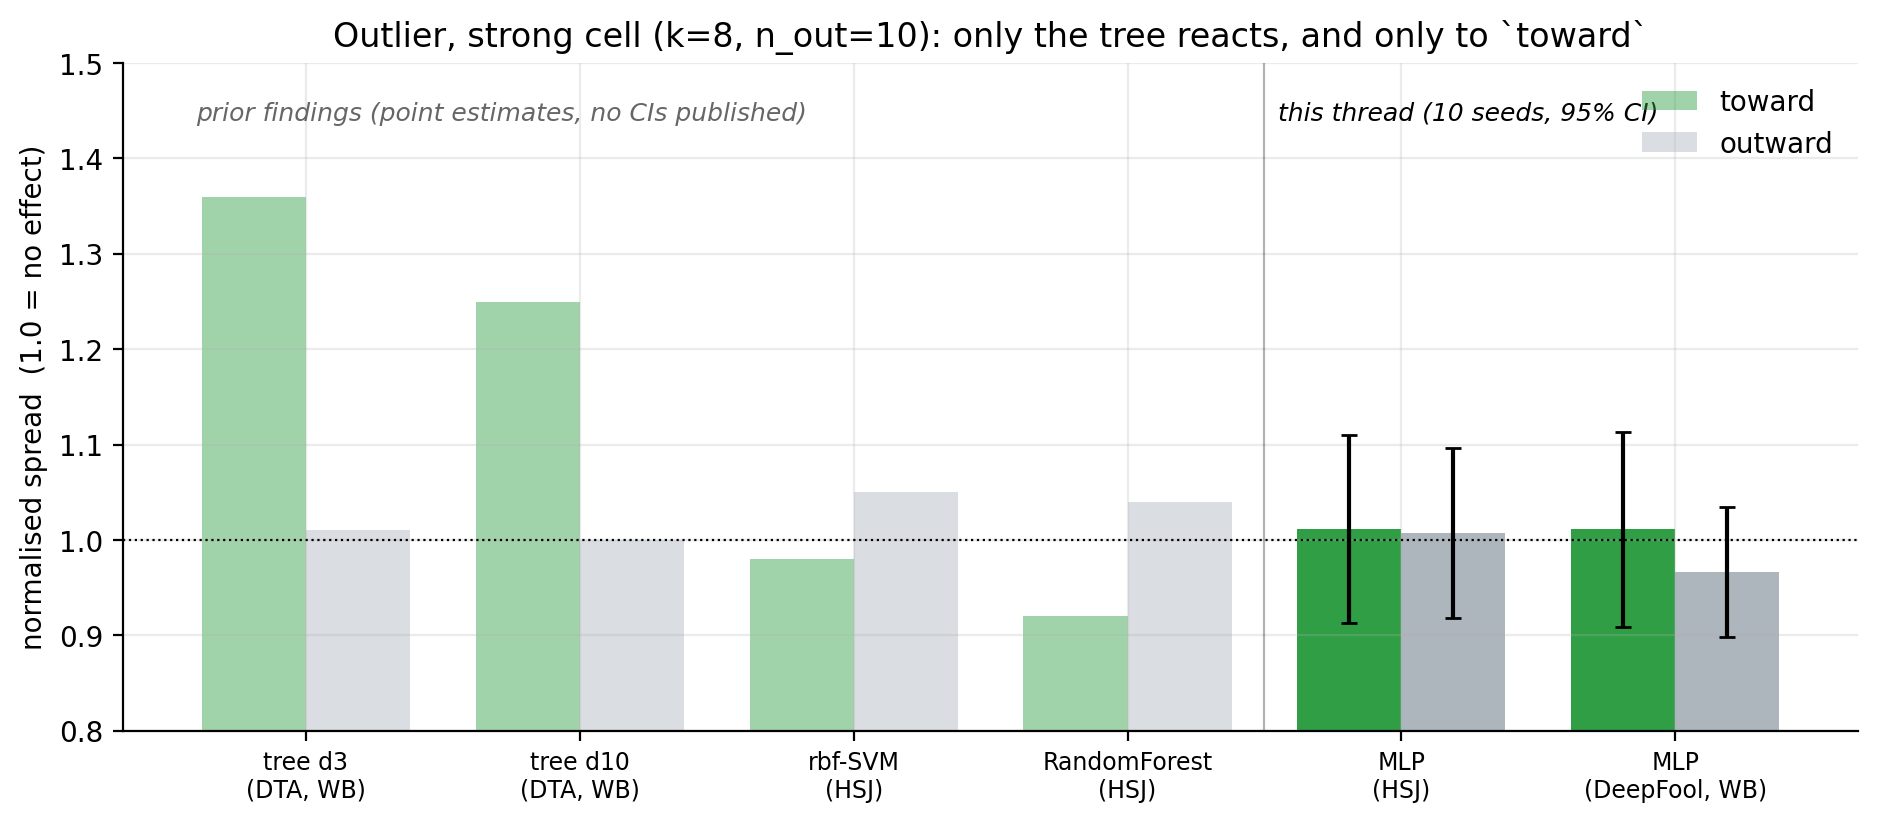
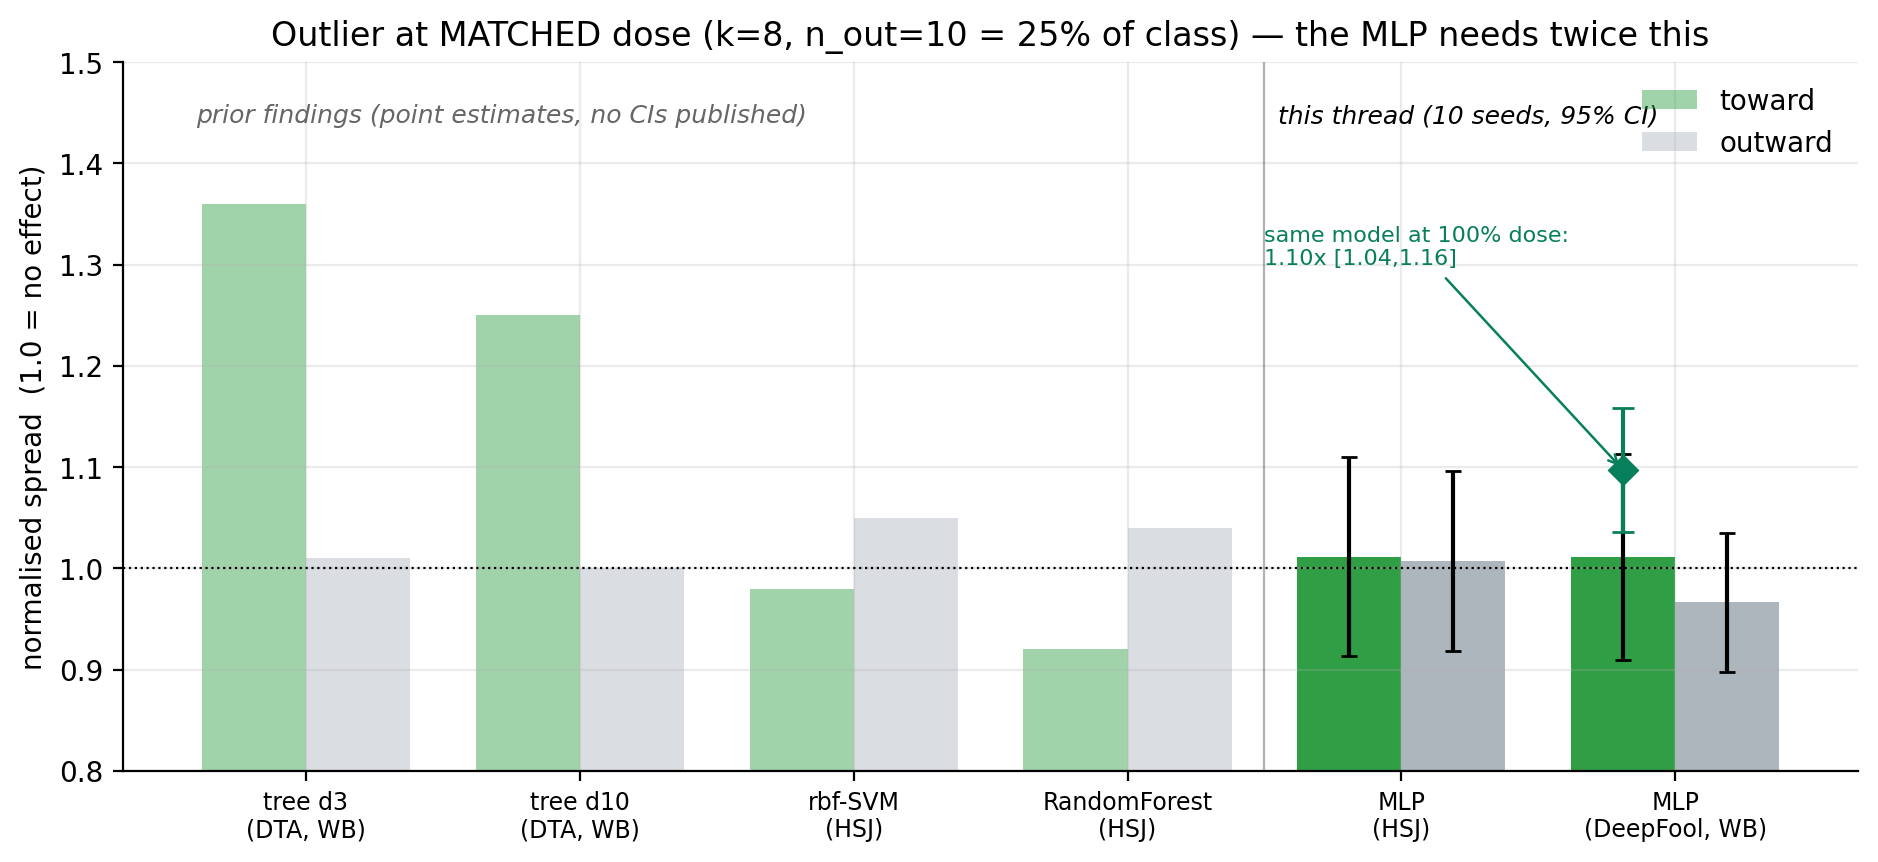
Apply the F4 dose correction to Phase 0; dedupe against FINDINGS_dose.md
FINDINGS_dose.md D1 flagged that F4/H6 needed the dose qualification. This
applies it and removes the overlap between the two documents.

- F4: "the outlier signal is specific to axis-aligned partition models" was
  wrong. MLP `toward` is null only at n_out<=10; at >=50% dose it reaches a
  stable ~1.10x with accuracy flat. Corrected to ~5x the tree's dose (the tree
  responds from n_out~1 and saturates by ~5), not the "double" an earlier
  draft of this edit claimed. `outward` is unaffected: null at every distance
  and every dose out to 150% of class size, so the locality refutation stands.
- F4/F5/F6 now state the conclusion and point to FINDINGS_dose.md D1-D3 for
  the tables, rather than restating them less carefully. D1's caveats (the
  n_out=10 dip is instability below 50% dose, not a real dip; 60 points at 8s
  is a second class mode, not an outlier) are better than what I had written.
- F5 picks up D3: the near-field contamination defect stays invisible to
  accuracy at every dose (minority recall 0.942 -> 0.942 at 150%), which is a
  stronger form of the project's claim than the coverage gap, whose
  accuracy-blindness F1 showed to be a test-set artifact.
- F6 upgraded from "lead" to "weak but replicated": `random` now has a dose
  curve (1.10/1.15/1.12 at 12-50%, decaying above), echoing RF's 1.13x.
- f4 figure: retitled to state it is the MATCHED dose (25% of class) and
  annotated with the same model's 100%-dose value, so the panel can no longer
[…]

diff --git a/mlp_experiment/FINDINGS_phase0.md b/mlp_experiment/FINDINGS_phase0.md
@@ -5,8 +5,10 @@ Every fold fits **one** model attacked by **both** HopSkipJump (black-box) and D
 (white-box), so the attack contrast shares identical weights. Spread is inverse-transformed to
 raw iris units and normalised **per seed** to that seed's clean baseline (1.0 = no effect).
 
-Data: `results.parquet` (720 rows / 360 cells, **0 NaN**). Runner: `run_experiment.py`.
-Analysis: `python analyze.py`. Contract: `PLAN.md`.
+Data: `results.parquet` (1440 rows / 720 cells, **0 NaN**) — the base grid plus the `--ceiling`
+(dose to 150% of class size at `k=8`) and `--dose` (count sweep at fixed `k=2`, `k=4`, with a
+matched-count `outward` control) extensions. Runner: `run_experiment.py`.
+Analysis: `python analyze.py` · figures: `analysis.ipynb`. Contract: `PLAN.md`.
 
 Clean baseline: `vacc` 0.957, spread 0.600 (HSJ) / 0.622 (DeepFool), perturbation ~1.36.
 **H5 ✅** — same order as tree (~0.44) and SVM (~0.49), so the standardise-then-invert pipeline
@@ -71,46 +73,48 @@ running out of attackable test points**, and it is attack-specific (HSJ's stocha
 DeepFool's deterministic gradient step — DeepFool/`before_split` moves 1.27× → 1.24×, within CI).
 Confirmed on a model family that shares no structure with the decision tree.
 
-## F4 — H6 REFUTED: the MLP does *not* see outward outliers, so locality is not the explanation
+## F4 — H6: `outward` is refuted robustly; `toward` fires, but only at ~5× the tree's dose
 
 Pre-registered prediction: a global boundary should be dragged by a far same-labeled point, so
-`outward` should fire where every local model is null. It does not.
+`outward` should fire where every local model is null.
 
-Strong cell (`k=8, n_out=10`), normalised, 95% CI:
+**`outward` does not fire — at any distance, at any dose, under either attack.** Now tested to
+`n_out=60`, i.e. **150% of the target class**, at `k=8` (3.53 cm, genuine far field):
 
-| model (attack) | toward | outward |
-|---|---|---|
-| tree d3 (DTA, white-box) | **1.36×** | 1.01× null |
-| tree d10 (DTA, white-box) | **1.25×** | 1.00× null |
-| rbf-SVM (HSJ) | 0.98× null | 1.05× null |
-| RandomForest (HSJ) | 0.92× null | 1.04× null |
-| **MLP (HSJ)** | **1.01× [0.91,1.11] null** | **1.01× [0.92,1.10] null** |
-| **MLP (DeepFool, white-box)** | **1.01× [0.91,1.11] null** | **0.97× [0.90,1.03] null** |
+| dose (% of class) | 12% | 25% | 50% | 75% | 100% | 150% |
+|---|---|---|---|---|---|---|
+| DeepFool `outward` | 1.00 | 0.97 | 1.03 | 0.92 | 0.95 | 1.02 |
 
-Two conclusions, both cleaner than the hypothesis they replace:
+**The locality explanation is therefore wrong.**
+[`outlier_experiment/FINDINGS_phase05.md`](../outlier_experiment/FINDINGS_phase05.md) F4 attributes
+the rbf-SVM `outward` null to the Gaussian kernel's influence decaying to ~0 before reaching the
+probed boundary, and names a global-boundary model as the clean test. The MLP is that test, it is
+null under a white-box gradient attack, and it stays null when the "outliers" outnumber the class
+itself. The `outward` null is **general**, not a kernel artifact. The proposed linear-SVM
+follow-up is not worth running.
 
-1. **The locality explanation is wrong, or at least insufficient.**
-   [`outlier_experiment/FINDINGS_phase05.md`](../outlier_experiment/FINDINGS_phase05.md) F4
-   attributes the rbf-SVM `outward` null to the Gaussian kernel's influence decaying to ~0 before
-   reaching the probed boundary, and names a global-boundary model as the clean test. The MLP is
-   that test, and it is null too — **including under a white-box gradient attack**. The
-   `outward` null is *general*, not a kernel-locality artifact. The proposed linear-SVM follow-up
-   is unlikely to be worth running.
-2. **The outlier signal looks specific to axis-aligned partition models under white-box attack.**
-   The MLP shows no `toward` response either (1.01×), where trees show 1.25–1.36×. Combined with
-   RF's null, the tree result now looks like a property of *how a tree carves space* — a lone far
-   point forces a dedicated axis-aligned tendril that the minimal-perturbation attack walks into —
-   rather than a general property of adversarial geometry.
+### ⚠ Correction — `toward` DOES fire on the MLP; this document's first draft got it wrong
 
-The H6 refutation is unaffected by F5 below: `outward` is null at *every* distance, and `toward`
-at `k=8` — genuine far-field, 3.53 cm from the centroid — is null too.
+An earlier version of F4 concluded that "the outlier signal is specific to axis-aligned partition
+models under white-box attack", because MLP `toward` is null at the strong cell. **That cell is
+`n_out=10` — 25% of the class — which is simply too small a dose for this model.** At ≥50% dose
+DeepFool `toward` reaches a stable **~1.10×** with CIs clearing 1.0, while test accuracy holds at
+0.945–0.951 against a clean 0.957. The MLP needs roughly **5× the dose a tree needs** (the tree
+responds from `n_out≈1` and saturates by ~5); it is not blind to outliers.
 
-**Correction (H7).** An earlier draft of this document recorded H7 as "no dose-response at all,
-flat in `k` for both attacks and both directions". That was wrong. It scanned only for spread
-*above* 1.0 and filed everything else as null, discarding a clean monotonic trend running in the
-**compression** direction. See F5.
+Generalising from one cell was the error — the exact dose limitation flagged when F4 was written.
+**`outward` is unaffected and the locality refutation stands.** HSJ remains null at every dose,
+so Thread A's white-box dependence holds here too.
 
-## F5 — The MLP detects near-field CONTAMINATION by compressing, not far-field outliers (H7 ↺)
+Full account, including the fourth ceiling shape and its caveats:
+[`FINDINGS_dose.md`](FINDINGS_dose.md) **D1**.
+
+**Correction (H7).** An earlier draft also recorded H7 as "no dose-response at all, flat in `k`
+for both attacks and both directions". Also wrong: it scanned only for spread *above* 1.0 and
+filed everything else as null, discarding a clean trend running in the **compression** direction.
+See F5 and [`FINDINGS_dose.md`](FINDINGS_dose.md) D2.
+
+## F5 — Near-field CONTAMINATION produces the opposite sign: compression, not expansion (H7 ↺)
 
 At small `k` the `toward` injection does not produce an outlier at all. Measured geometry:
 
@@ -129,9 +133,14 @@ not an anomaly. DeepFool responds, and responds *downward*:
 | **DeepFool** (`n_out=10`) | **0.85× [0.79, 0.91]** | 0.96× [0.90, 1.01] | 1.01× [0.91, 1.11] |
 | HSJ (`n_out=10`) | 1.02× [0.96, 1.09] | 1.02× [0.90, 1.14] | 1.01× [0.91, 1.11] |
 
-Monotonic in `k`, and dose-dependent at fixed `k=2`: `n_out=5` → 0.90× [0.80, 1.01],
-`n_out=10` → **0.85×**. `nclust` (~3.8) and `clust_size` (~5.7) barely move, so these are
-genuinely tighter clusters, not a clustering artifact.
+Monotonic in `k`. `nclust` (~3.8) and `clust_size` (~5.7) barely move, so these are genuinely
+tighter clusters, not a clustering artifact.
+
+**A matched-count `outward` control confirms this is about *where* the points land, not *how
+many*** — `toward` sits at 0.85–0.91 across the dose sweep while `outward` at the identical count
+is flat at ~1.02. The compression is also a **threshold, not a dial**: it trips at `n_out=3` and
+then saturates rather than deepening. Full dose sweep and the accuracy-blindness check:
+[`FINDINGS_dose.md`](FINDINGS_dose.md) **D2**, **D3**.
 
 **Mechanism.** Contamination drags the boundary into the dense contested band and anchors it
 there. DeepFool walks each test point to its *nearest* boundary, so every adversarial point piles
@@ -152,24 +161,43 @@ mapping" after observing accuracy dip at extreme `toward` injection. The frontie
 near **`k ≈ 3.7`** (where `k·s` equals the centroid gap).
 
 **Consequence for the F5 question in Thread A** — whether a more sensitive model detects
-*realistic* 2–3σ outliers: still **no**. A realistic outlier is far-field and same-labelled; the
-MLP is null there. What it detects at `k=2` is a different defect wearing the outlier's clothes.
+*realistic* 2–3σ outliers: **still no**. At `k=2–3` the injected point is not a realistic outlier,
+it is contamination in a neighbouring class, and what fires there is a different defect wearing
+the outlier's clothes. The MLP's genuine far-field outlier response (F4) needs `k=8` *and* ≥50%
+dose — far outside anything a real dataset would contain.
 
-## F6 — Tentative: `random` direction is the only far-field outlier cell that moves
+**But the contamination defect it *does* detect is the more valuable finding.** Per
+[`FINDINGS_dose.md`](FINDINGS_dose.md) D3, `k=2, toward` stays invisible to accuracy at every dose
+tested (minority recall 0.942 → 0.942 at 150% dose) while producing a stable, control-validated
+geometric signal. That is the project's central claim in its strongest form — and unlike the
+coverage gap, whose accuracy-blindness F1 showed to be a test-set artifact, this one survives a
+clean test set.
 
-DeepFool `random` at the strong cell is **1.15× [1.04,1.27]** while HSJ `random` is 1.01× (null).
-This echoes the one non-null RF cell in Thread B (`random` **1.13× [1.02,1.24]`,
-[`FINDINGS_outlier.md`](../model_family_experiment/FINDINGS_outlier.md) F2) — two different models
-showing a weak effect in the same direction.
+**The sign is the diagnostic.** Taken with F4, the MLP separates two defects by the *direction*
+of the geometric change: contamination in the overlap → **compression** (0.85×); far-field
+same-labelled outliers at high dose → **expansion** (1.10×). Both are white-box-only and both are
+accuracy-blind-ish, so a scalar magnitude alone would conflate them; the sign does not.
 
-**Treat as a lead, not a result.** It is a single cell among six direction × attack combinations
-with no dose-response behind it, so it is exactly the shape of a multiple-comparisons artifact.
-Thread A's own lesson (an n=3 conclusion that flipped at n=10) argues for a dedicated
-`random`-only grid before anything is claimed.
+## F6 — `random` direction fires at low-to-mid dose, and now has a dose curve
+
+| `k=8`, DeepFool `random` | 12% | 25% | 50% | 75% | 100% | 150% |
+|---|---|---|---|---|---|---|
+| normalised spread | **1.10** ✅ | **1.15** ✅ | **1.12** ✅ | 1.07 | 1.05 | 1.07 |
+
+Three consecutive doses clear 1.0, then it decays as dose rises — the opposite shape to `toward`,
+which switches on at 50% and holds. HSJ is null throughout. This echoes the one non-null RF cell
+in Thread B (`random` 1.13× [1.02,1.24],
+[`FINDINGS_outlier.md`](../model_family_experiment/FINDINGS_outlier.md) F2), so two different
+models now show it.
+
+**Upgraded from "lead" to "weak but replicated result"** — it survives a dose sweep rather than
+sitting in one cell, which was the multiple-comparisons worry. Still the weakest effect here, and
+the decay at high dose is unexplained: scattering `n` points isotropically probably stops looking
+like anomalies and starts looking like added variance once `n` approaches the class size.
 
 ## F7 — H4 ✅: the MLP escapes the flat-facet hang trap entirely
 
-**0 NaN cells out of 360**, attack success 0.944 for both attacks, ~27.5 adversarials per fold.
+**0 NaN cells out of 720**, attack success 0.944 for both attacks, ~27.9 adversarials per fold.
 Compare RF/tree + HSJ on label noise, where **53 of 90 cells hung** and Thread B was abandoned
 ([`FINDINGS_label_noise.md`](../model_family_experiment/FINDINGS_label_noise.md)). A smooth
 boundary gives HSJ a well-conditioned direction estimate, so **label noise via HSJ is tractable on
@@ -184,10 +212,10 @@ an MLP** — a question the project closed as a hang trap is reopened for this m
 | 1 | H1 — CG spread separates low vs high bias | ✅ both attacks, both protocols |
 | 2 | H2 — protocol isolates the accuracy effect | ✅ decisively; F1 |
 | 3 | H3 — DeepFool vs HSJ verdict stated | ✅ DeepFool cleaner on `before_split` (d +1.40 vs +0.24); **HSJ far stronger on `train_only` (d +2.81 vs +1.00)** — no consistent white-box advantage for a *global* defect, unlike the outlier case |
-| 4 | H4 — hang rate recorded | ✅ 0/360 |
+| 4 | H4 — hang rate recorded | ✅ 0/720 |
 | 5 | H5 — baseline comparable to tree/SVM | ✅ 0.60 vs 0.44 / 0.49 |
-| 6 | H6 — outward clears 1.0 | ❌ **refuted**; F4 |
-| 7 | H7 — dose-response onset vs tree's k≥6 | ⚠ **not as predicted, but not null** — no far-field response at any `k`; a monotonic *compression* response to near-field contamination at `k=2` (0.85×, DeepFool only); F5 |
+| 6 | H6 — outward clears 1.0 | ❌ **refuted, robustly** — null at every distance and every dose out to 150% of the class; F4 |
+| 7 | H7 — dose-response onset vs tree's k≥6 | ⚠ **two responses, neither as predicted** — far-field `toward` needs `k=8` **and ≥50% dose** (1.10×, accuracy-blind, DeepFool only); near-field contamination compresses to 0.85× with a matched-count `outward` control; F4, F5 |
 
 ## Next
 
@@ -202,10 +230,13 @@ an MLP** — a question the project closed as a hang trap is reopened for this m
 4. **Resolve `k` in units of the class gap, not class σ.** F5 shows `k` conflates two defects:
    below `k ≈ 3.7` it is contamination, above it is a true outlier. Reporting `k·s / centroid-gap`
    alongside `k` would stop this being rediscovered.
-5. **Ceiling extension** (`--ceiling`, `n_out ∈ {20,30,40,60}` at `k=8`) — the honest scope limit
-   on F4: our maximum dose was 25% of the class, and Thread A found the tree's response plateaus
-   between 25–75% and collapses at 100%, while rbf-SVM was null at low dose but rose to 1.09× at
-   the ceiling *with accuracy degrading*. The MLP is the other global model, so its ceiling
-   behaviour is the direct test.
-6. **Do not** run the linear-SVM outward test (F4 makes it uninformative); consider a dedicated
-   `random`-direction grid instead (F6).
+5. **Re-check the tree and RF at ≥50% dose on `toward`.** This is the generalisable lesson from
+   the F4 correction: MLP `toward` reads null at 25% and fires at 50%+. RandomForest was recorded
+   as "flat null throughout" — but if its ceiling grid was concentrated at low dose, it may have
+   the same blind spot this document did. Cheap to verify and it would change a published claim.
+6. **Report the sign, not just the magnitude.** F4 and F5 give opposite-signed responses to two
+   different defects on the same model and attack. A scalar "spread went up by X" conflates them;
+   `>1` vs `<1` separates them. This is the closest thing this thread has to a positive
+   methodological contribution.
+7. **Do not** run the linear-SVM outward test — F4 makes it uninformative now that `outward` is
+   null out to 150% dose on a global model.

diff --git a/mlp_experiment/FINDINGS_dose.md b/mlp_experiment/FINDINGS_dose.md
@@ -118,6 +118,7 @@ matters; not worth a sentence in a report yet.
 
 1. **`FINDINGS_phase0.md` F4/H6 needs the dose qualification** — "the MLP is null for outliers" is
    only true at `n_out ≤ 10`. The `outward` locality refutation is unaffected.
+   *(Applied 2026-08-12: F4 now carries the correction and points here.)*
 2. **The MLP has two distinct outlier responses, in opposite directions**: far-field dispersion
    (`k=8`, dose ≥ 50%, ~1.10×) and near-field compression (`k=2`, dose ≥ 3, ~0.86×). A scalar
    spread metric with a one-sided "is it above 1.0" test detects the first and **actively hides
@@ -131,4 +132,5 @@ matters; not worth a sentence in a report yet.
   says it sits near `k=3.67`, where the injection crosses the versicolor centroid).
 - Record **per-class recall for all three classes**, not just `tc` — D3 can only infer the
   versicolor dent from overall accuracy.
-- Dedicated `random`-direction grid (Phase 0 F5 lead, still unresolved).
+- Dedicated `random`-direction grid (Phase 0 **F6** — renumbered when the contamination finding
+  was inserted as F5; it now has a dose curve, firing at 12–50% and decaying above that).
